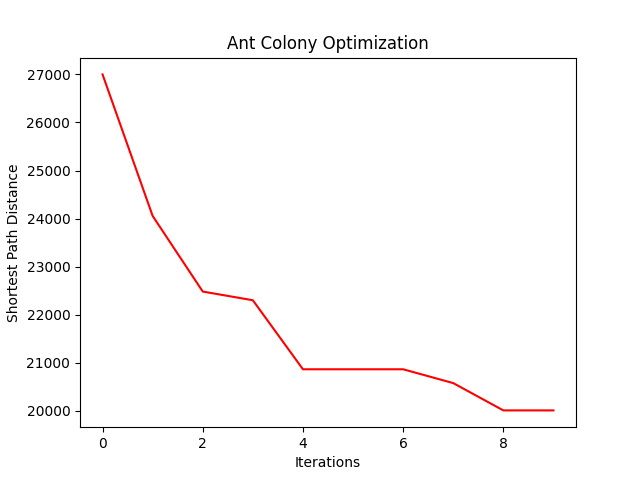
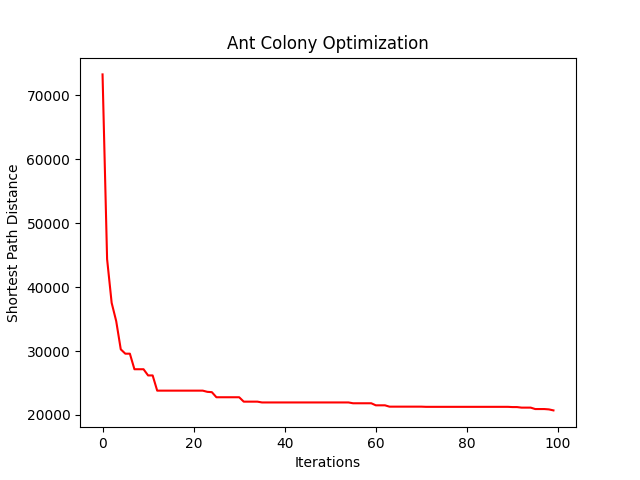
Changes to be committed: 	modified:   README.md 	modified:   ant_colony.py 	modified:   antcolony_nodes-500_drones-10.png 	modified:   main.py

diff --git a/ant_colony.py b/ant_colony.py
@@ -1,6 +1,6 @@
 import random as rn
 import numpy as np
-from numpy.random import choice as np_choice
+import progressbar
 
 class AntColony(object):
 
@@ -18,31 +18,41 @@ class AntColony(object):
         Example:
             ant_colony = AntColony(german_distances, 100, 20, 2000, 0.95, alpha=1, beta=2)          
         """
-        self.distances  = distances
-        self.pheromone = np.ones(self.distances.shape) / len(distances)
-        self.all_inds = range(len(distances))
+        self.distances  = distances# （n_nodes, n_nodes）
+        self.pheromone = np.ones(self.distances.shape) / len(distances)# (n_nodes, n_nodes)
+        self.all_inds =  np.arange(0, len(distances), 1)#(n_nodes,) 
+        self.n_best = n_best# n_best ants spread pheromone
         self.n_ants = n_ants
-        self.n_best = n_best
         self.n_iterations = n_iterations
-        self.decay = decay
+        self.decay = decay# pheromone decay
         self.alpha = alpha
         self.beta = beta
 
     def run(self):
+        '''
+        Returns:
+            final_shortest_path (tuple): (path, path_len)
+
+            shortest_path_record (list): list[(iter_idx, path_len)]
+            
+        '''
         shortest_path = None
         all_time_shortest_path = ("placeholder", np.inf)
-        for i in range(self.n_iterations):
-            all_paths = self.gen_all_paths()
+        shortest_path_record = []
+        pbar = progressbar.ProgressBar(maxval=self.n_iterations)(range(self.n_iterations))
+        for i in pbar:
+            all_paths = self.gen_all_paths()# list[(path, path_len)] path: list[(node_i, node_{i+1})]
             self.spread_pheronome(all_paths, self.n_best, shortest_path=shortest_path)
             shortest_path = min(all_paths, key=lambda x: x[1])
             if shortest_path[1] < all_time_shortest_path[1]:
-                all_time_shortest_path = shortest_path            
-            self.pheromone = self.pheromone * self.decay            
-        return all_time_shortest_path
+                all_time_shortest_path = shortest_path       
+            shortest_path_record.append((i, all_time_shortest_path[1]))
+        return all_time_shortest_path, shortest_path_record
 
     def spread_pheronome(self, all_paths, n_best, shortest_path):
-        sorted_paths = sorted(all_paths, key=lambda x: x[1])
-        for path, dist in sorted_paths[:n_best]:
+        sorted_paths = sorted(all_paths, key=lambda x: x[1])# ascending by path_len
+        self.pheromone*=self.decay
+        for path, dist in sorted_paths[:n_best]:# n_best ants spread pheromone
             for move in path:
                 self.pheromone[move] += 1.0 / self.distances[move]
 
@@ -72,13 +82,19 @@ class AntColony(object):
         path.append((prev, start)) # going back to where we started    
         return path
 
-    def pick_move(self, pheromone, dist, visited):
-        pheromone = np.copy(pheromone)
-        pheromone[list(visited)] = 0
+    def pick_move(self, pheromone_to, dist_to, visited):
+        '''
+        pheromone: (n_nodes,)
+        distances: (n_nodes,)
+        visited: set, visited node id
+        '''
+        pheromone_to = np.copy(pheromone_to)
+        pheromone_to[list(visited)] = 0
 
-        row = pheromone ** self.alpha * (( 1.0 / dist) ** self.beta)
+        raw_prob = pheromone_to ** self.alpha * (( 1.0 / dist_to) ** self.beta)
 
-        norm_row = row / row.sum()
-        move = np_choice(self.all_inds, 1, p=norm_row)[0]
+        prob = raw_prob / raw_prob.sum()# transition probability
+        move = np.random.choice(self.all_inds, p=prob)
+        
         return move
 

diff --git a/main.py b/main.py
@@ -1,6 +1,6 @@
 import numpy as np
 import matplotlib.pyplot as plt
-import progressbar
+
 from ant_colony import AntColony  # Ensure this imports your AntColony class
 from galogic import *  # Assuming Dustbin and RouteManager are defined here
 
@@ -27,7 +27,7 @@ for i in range(num_dustbins):
 # Ant Colony Optimization parameters
 n_ants = 30
 n_best = 10
-n_iterations = 10
+n_iterations = 100
 decay = 0.95
 alpha = 1
 beta = 2
@@ -36,18 +36,20 @@ beta = 2
 ant_colony = AntColony(distance_matrix, n_ants, n_best, n_iterations, decay, alpha, beta)
 
 # Lists to track progress
-yaxis = []  # Shortest distance in each iteration
-xaxis = []  # Iteration count
+# yaxis = []  # Shortest distance in each iteration
+# xaxis = []  # Iteration count
 
 # Run ACO with progress bar
-pbar = progressbar.ProgressBar(maxval=n_iterations)
+
 shortest_path = ("placeholder", np.inf)
-for i in pbar(range(n_iterations)):
-    current_shortest = ant_colony.run()
-    if current_shortest[1] < shortest_path[1]:
-        shortest_path = current_shortest
-    yaxis.append(shortest_path[1])
-    xaxis.append(i)
+# for i in pbar(range(n_iterations)):
+#     current_shortest = ant_colony.run()
+#     if current_shortest[1] < shortest_path[1]:
+#         shortest_path = current_shortest
+#     yaxis.append(shortest_path[1])
+#     xaxis.append(i)
+shortest_path, record = ant_colony.run()
+xaxis, yaxis = [i[0] for i in record], [i[1] for i in record]
 
 print('Global minimum distance:', shortest_path[1])
 print('Final Path:', shortest_path[0])

diff --git a/README.md b/README.md
@@ -3,7 +3,7 @@ Here graph is covered using different agents having different routes.
 
 Routes only intersect at initial node.
 
-main.py 作为 Baseline.
+baseline.py 作为 Baseline.
 
 共有`numTrucks`个无人机（truck），`numNodes`个检查点(dustbin)
 第1个dustbin(index=0)是基地。
